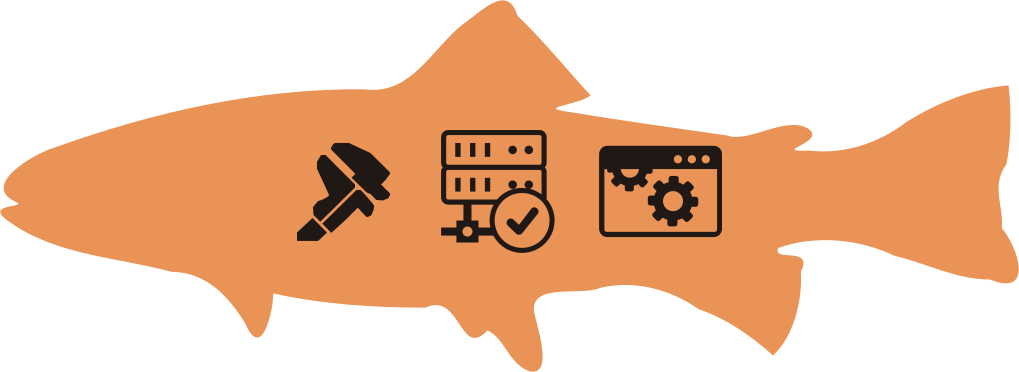
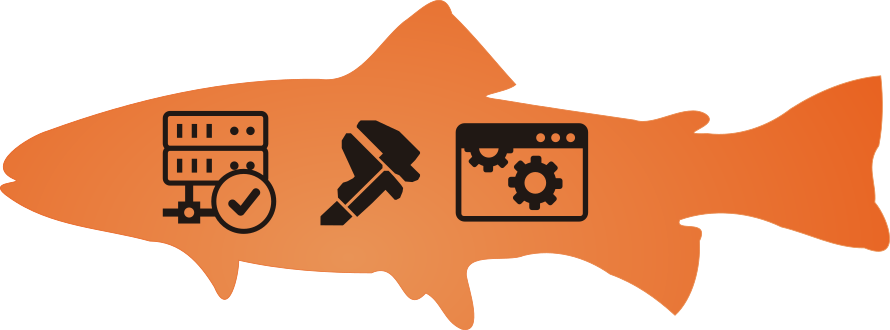
Quick updates - Trout Card and services titles

diff --git a/pages/services.py b/pages/services.py
@@ -56,7 +56,7 @@ imglist = ["static/img/services/Hardware Design.jpg","static/img/services/Softwa
 def render() -> None:
     with ui.column().classes('w-full mx-auto pt-24 pb-0 gap-4 items-center').props('id=about').style("padding-top: 0;"):
         ui.image('static/img/services/TroutCard.png').style(
-            "width: 50%; height: 50%; object-fit: fill; margin: 0; padding: 0; display:"
+            "width: 200px; object-fit: fill; margin: 0; padding: 0; display:"
         )
         ui.label('Services Provided').classes('text-5xl italic font-bold text-center pb-4').style(f"color: {theme.Color.PARCHMENT};")
         
@@ -75,7 +75,7 @@ def render() -> None:
             with ui.card().classes('rounded-2xl shadow-lg w-4/5 px-6 py-4 flex flex-col items-center text-center hover:shadow-2xl transition-shadow duration-300').style(f'background-color: {theme.Color.PARCHMENT};'):
                 # Add a header card with a parallax image and category title
                 with ui.element("q-parallax").props(f"src='{imglist[i]}' height='150' auto-width speed=30").style('background-position: bottom;'):
-                    with ui.card().classes('rounded-2xl shadow-md w-full px-4 py-2 flex items-center justify-center').style(f'background-color: {theme.Color.SOFT_ORANGE};'):
+                    with ui.card().classes('rounded-2xl shadow-md w-full px-4 py-2 flex items-center justify-center').style(f'background-color: {theme.Color.SOFT_ORANGE}; width: fit-content;'):
                         ui.label(category).classes('text-4xl italic font-bold').style(f"color: {theme.Color.DARK_BROWN};")
                 ui.separator()
 
@@ -91,7 +91,7 @@ def render() -> None:
 def add_info(key: str) -> None:
     for i, service in enumerate(services[key]):
         ui.label(service["title"]).classes('text-2xl text-left font-bold').style(f"color: {theme.Color.BURNT_ORANGE};")
-        ui.label(service["description"]).classes('text-lg text-left font-medium').style(f"color: {theme.Color.DARK_BROWN};")
+        ui.label(service["description"]).classes('text-lg text-left font-medium').style(f"color: {theme.Color.DARK_BROWN}; ")
         if (i != len(services) - 1):
             ui.separator()
 
